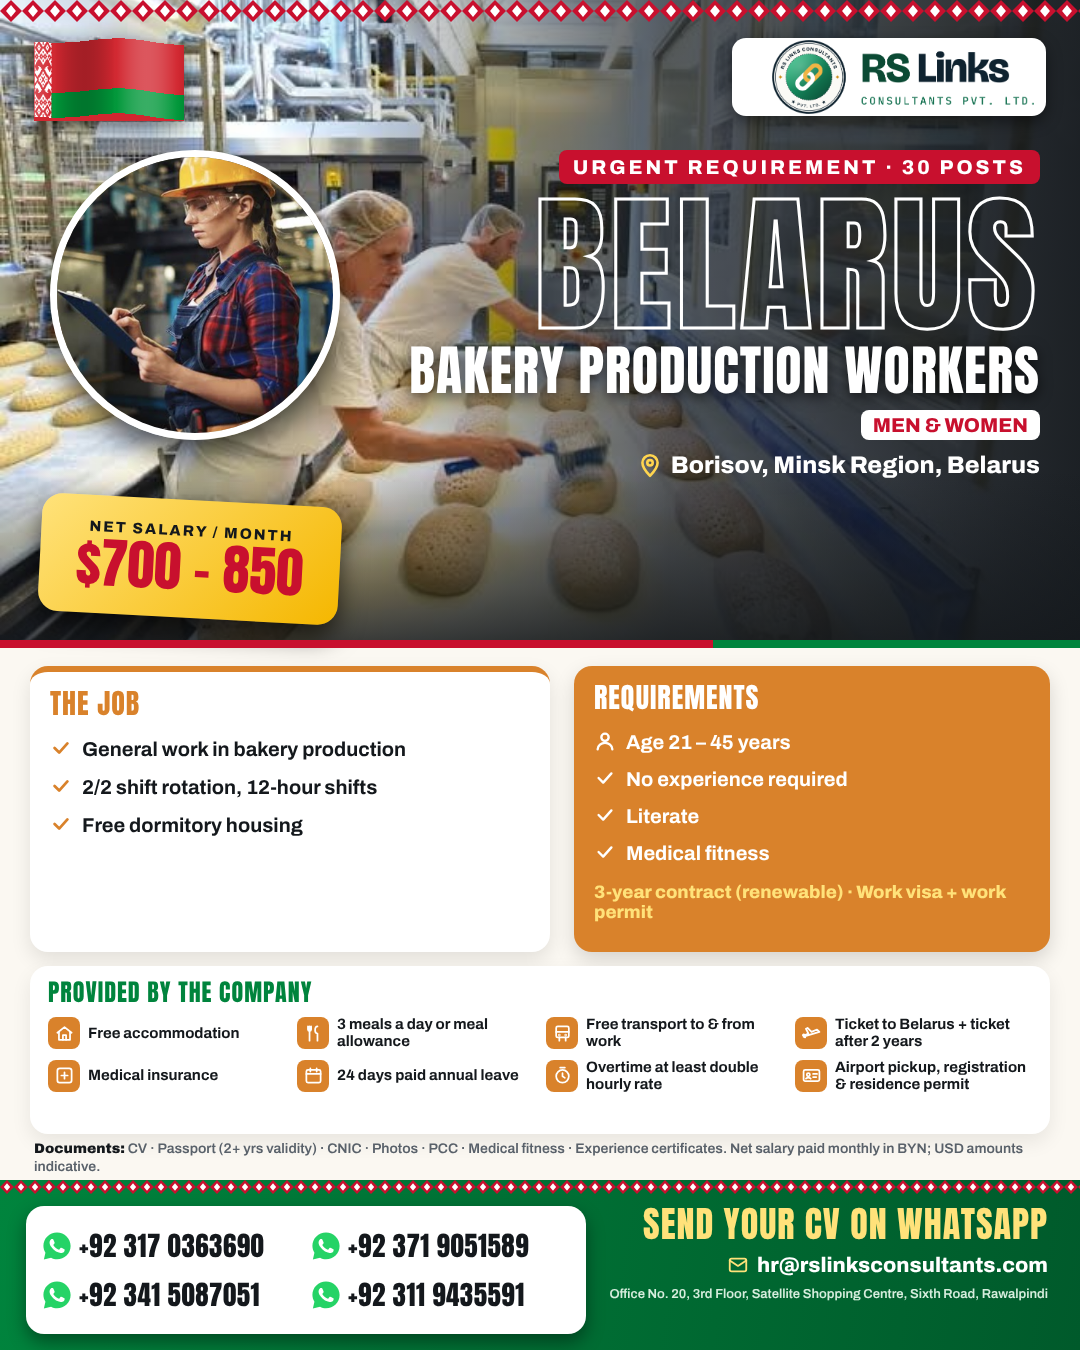
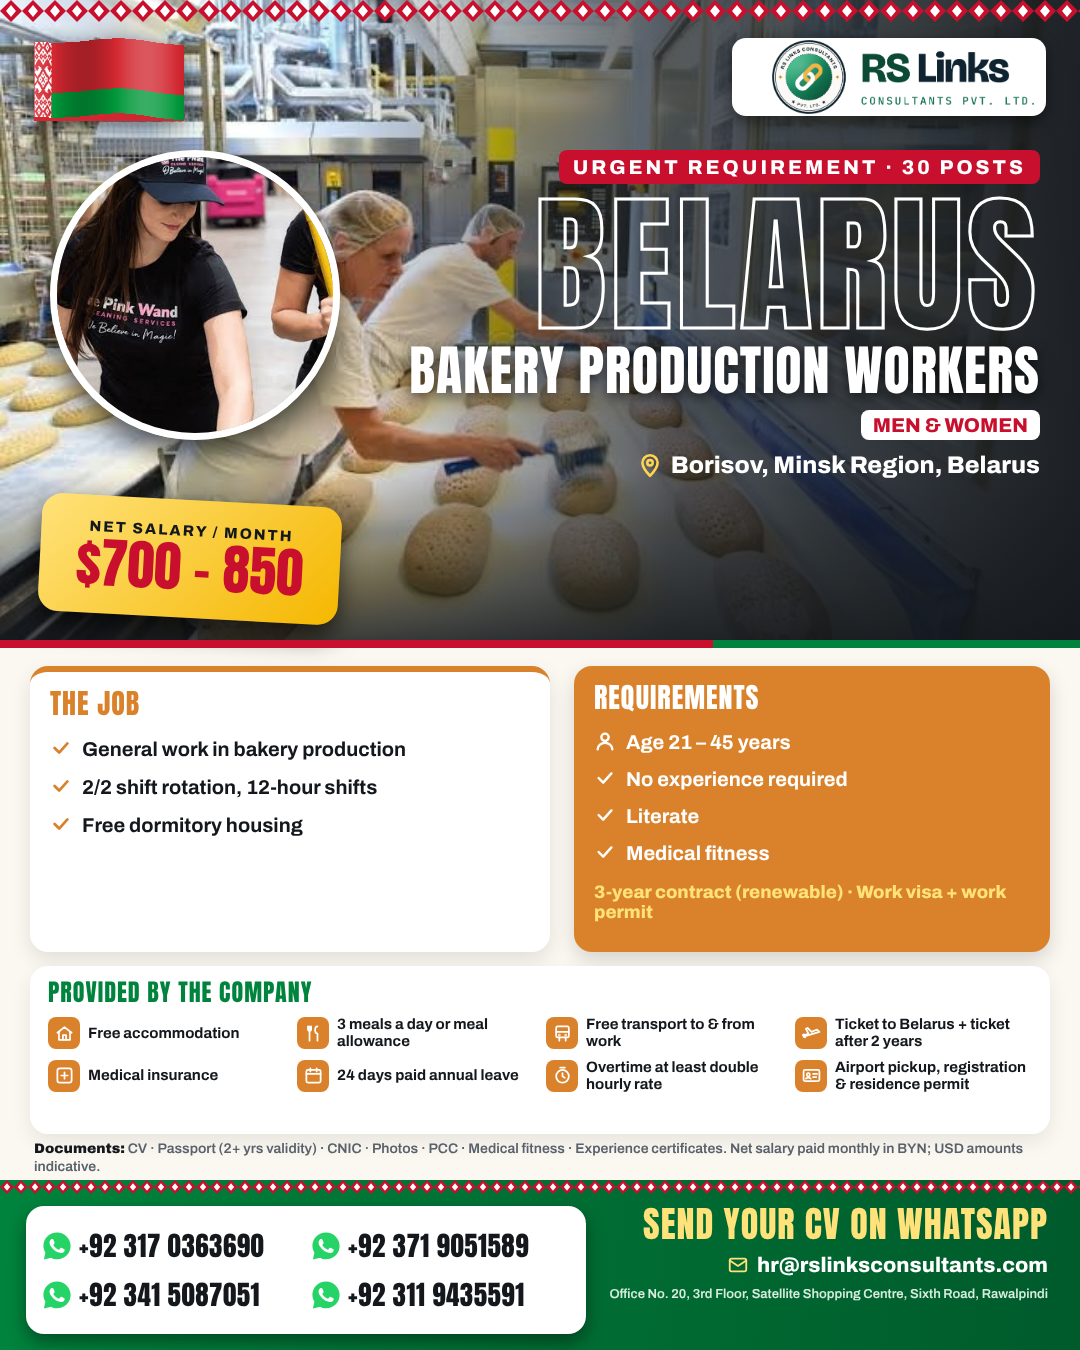
Belarus ads: left cleaner photo moved to bakery ad, cleaners ad back to single photo
Claude-Session: https://claude.ai/code/session_01YJ5ofgU8QCiWTsYR9pvXG4

Changed region(s): [[0.0306, 0.0933, 0.3056, 0.3422]]

diff --git a/src/belarus_roles.py b/src/belarus_roles.py
@@ -40,10 +40,10 @@ ROLES = [
          accent="#6A8E23", duties=["Harvesting crops (cabbage, potatoes)", "General farm work, crop handling, loading &amp; unloading",
                                      "5/2 or 6/1, 8–12 hours per day", "Free dormitory: 2 per room (separate rooms for couples)"],
          reqs=["Age 21 – 45 years", "1+ year farm work preferred", "Literate; good physical health"]),
-    dict(slug="bakery", inset="by_woman_production", title="BAKERY PRODUCTION WORKERS", who="Men &amp; Women", posts=30, city="Borisov, Minsk Region", sal="700 – 850",
+    dict(slug="bakery", inset="by_cleaner2", inset_pos="center center", title="BAKERY PRODUCTION WORKERS", who="Men &amp; Women", posts=30, city="Borisov, Minsk Region", sal="700 – 850",
          accent="#D9822B", duties=["General work in bakery production", "2/2 shift rotation, 12-hour shifts", "Free dormitory housing"],
          reqs=["Age 21 – 45 years", "No experience required", "Literate", "Medical fitness"]),
-    dict(slug="cleaners", pos="center 6%", inset="by_cleaner2", inset_css="top:350px;left:470px;width:260px;height:260px", inset_pos="center center", title="FACILITY CLEANERS", who="Women", posts=4, city="Borisov, Minsk Region", sal="600 – 750",
+    dict(slug="cleaners", pos="center 6%", title="FACILITY CLEANERS", who="Women", posts=4, city="Borisov, Minsk Region", sal="600 – 750",
          accent="#7B3FA0", duties=["Cleaning of production premises (bakery)", "2/2 shift rotation, 12-hour shifts", "Free dormitory housing"],
          reqs=["Age 21 – 45 years", "No experience required", "Literate", "Medical fitness"]),
 ]
